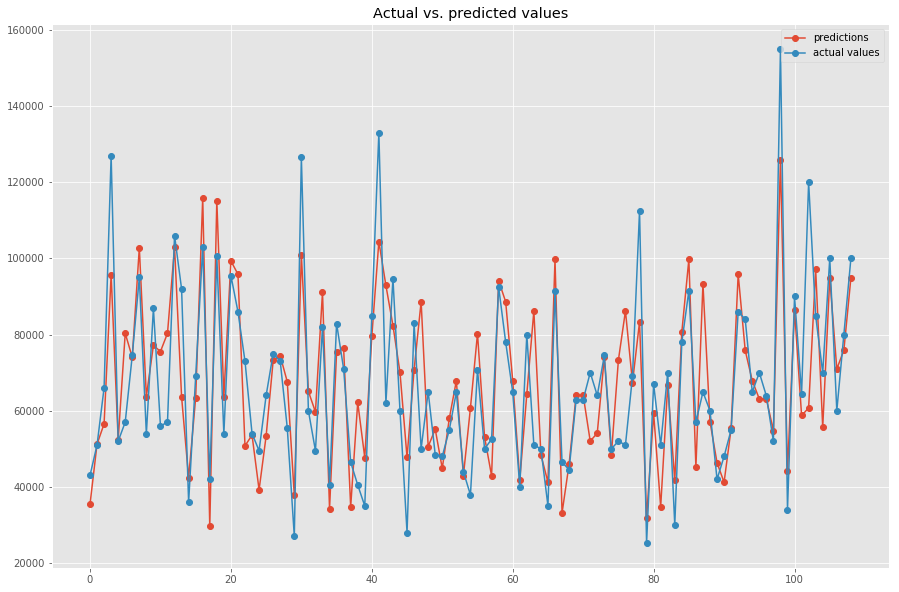
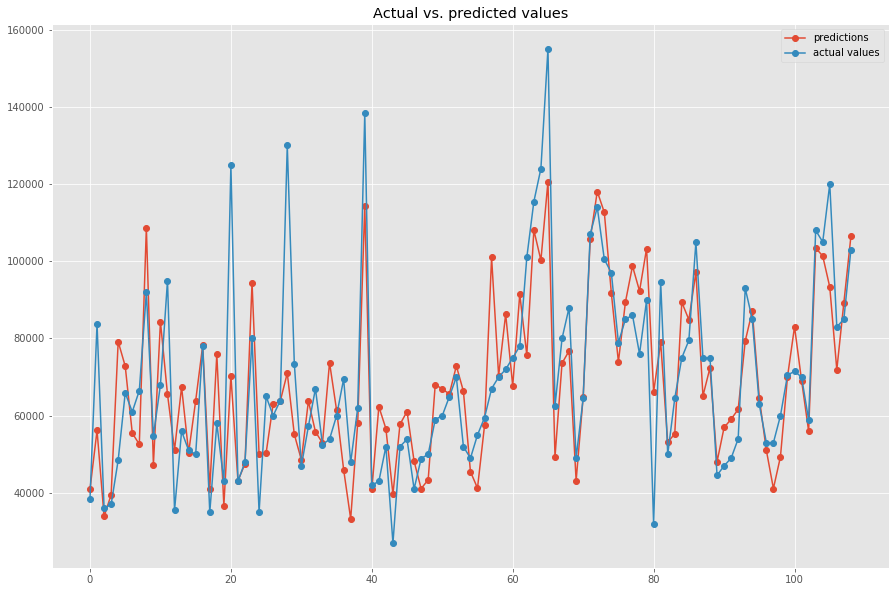
update readme

diff --git a/README.md b/README.md
@@ -3,22 +3,18 @@
 
 ## Introduction
 
-In this lab, you'll apply regression analysis using simple matrix manipulations to fit a model to given data, and then predict new values for previously unseen data. You'll follow the approach highlighted in the previous lesson where you used Numpy to build the appropriate matrices and vectors and solve for the $\beta$ (unknown variables) vector. The beta vector will be used with test data to make new predictions. You'll also evaluate the model fit.
-In order to make this experiment interesting, you'll use NumPy at every single stage of this experiment i.e. loading data, creating matrices, performing test train split, model fitting, and evaluations.
+In this lab, you'll apply regression analysis using simple matrix manipulations to fit a model to given data, and then predict new values for previously unseen data. You'll follow the approach highlighted in the previous lesson where you used NumPy to build the appropriate matrices and vectors and solve for the $\beta$ (unknown variables) vector. The beta vector will be used with test data to make new predictions. You'll also evaluate the model fit.
+In order to make this experiment interesting, you'll use NumPy at every single stage of this experiment, i.e., loading data, creating matrices, performing train-test split, model fitting, and evaluation.
   
 
 ## Objectives
 
-You will be able to:
+In this lab you will:
 
-* Use linear algebra to apply simple regression modeling in Python and NumPy only
-* Apply train/test split using permutations in NumPy
-* Use matrix algebra with inverses and dot products to calculate the beta
-* Make predictions from the fitted model using previously unseen input features 
-* Evaluate the fitted model by calculating the error between real and predicted values
+- Use matrix algebra to calculate the parameter values of a linear regression
 
 
-First, let's import necessary libraries 
+First, let's import necessary libraries: 
 
 
 ```python
@@ -35,42 +31,41 @@ import numpy as np
 
 ## Dataset 
 
-The dataset you'll use for this experiment is "**Sales Prices in the City of Windsor, Canada**", something very similar to the Boston Housing dataset. This dataset contains a number of input (independent) variables, including area, number of bedrooms/bathrooms, facilities(AC/garage), etc. and an output (dependent) variable, **price**.  You'll formulate a linear algebra problem to find linear mappings from input to out features using the equation provided in the previous lesson. 
+The dataset you'll use for this experiment is "**Sales Prices in the City of Windsor, Canada**", something very similar to the Boston Housing dataset. This dataset contains a number of input (independent) variables, including area, number of bedrooms/bathrooms, facilities(AC/garage), etc. and an output (dependent) variable, **price**.  You'll formulate a linear algebra problem to find linear mappings from input features using the equation provided in the previous lesson. 
 
 This will allow you to find a relationship between house features and house price for the given data, allowing you to find unknown prices for houses, given the input features.  
 
 A description of the dataset and included features is available [here](https://rdrr.io/cran/Ecdat/man/Housing.html).
 
-In your repository, the dataset is available as `windsor_housing.csv` containing the following variables:
-
-there are 11 input features (first 11 columns):
+In your repository, the dataset is available as `windsor_housing.csv`. There are 11 input features (first 11 columns):
 
 	lotsize	bedrooms  bathrms  stories	driveway  recroom	fullbase  gashw	 airco  garagepl   prefarea
 
 and 1 output feature i.e. **price** (12th column). 
 
-The focus of this lab is not really answering a preset analytical question, but to learn how you can perform a regression experiment, similar to the one you performed in statsmodels, using mathematical manipulations. So you won't be using any Pandas or statsmodels goodness here. The key objectives here are to 
-- understand regression with matrix algebra and 
-- mastery in NumPy scientific computation
+The focus of this lab is not really answering a preset analytical question, but to learn how you can perform a regression experiment, using mathematical manipulations - similar to the one you performed using `statsmodels`. So you won't be using any `pandas` or `statsmodels` goodness here. The key objectives here are to: 
 
-## Stage 1: Prepare Data for Modeling 
+- Understand regression with matrix algebra and 
+- Mastery in NumPy scientific computation
+
+## Stage 1: Prepare data for modeling 
 
 Let's give you a head start by importing the dataset. You'll perform the following steps to get the data ready for analysis:
 
 * Initialize an empty list `data` for loading data
-* Read the csv file containing complete (raw) `windsor_housing.csv`. [Use `csv.reader()` for loading data.](https://docs.python.org/3/library/csv.html). Store this in `data` one row at a time.
+* Read the csv file containing complete (raw) `windsor_housing.csv`. [Use `csv.reader()` for loading data.](https://docs.python.org/3/library/csv.html). Store this in `data` one row at a time 
 
-* Drop the first row of csv file as it contains the names of variables (header) which won't be used during analysis (keeping this will cause errors as it contains text values).
+* Drop the first row of csv file as it contains the names of variables (header) which won't be used during analysis (keeping this will cause errors as it contains text values) 
 
-* Append a column of all 1s to the data (bias) as the first column
+* Append a column of all **1**s to the data (bias) as the first column
 
-* Convert `data` to a Numpy array and inspect first few rows 
+* Convert `data` to a NumPy array and inspect first few rows 
 
-NOTE: `read.csv()` reads the csv as a text file, so you should convert the contents to float.
+> NOTE: `read.csv()` reads the csv as a text file, so you should convert the contents to float.
 
 
 ```python
-# Your Code here
+# Your code here
 
 
 
@@ -98,13 +93,13 @@ NOTE: `read.csv()` reads the csv as a text file, so you should convert the conte
 
 ```python
 # __SOLUTION__ 
-# Create Empty lists for storing X and y values. 
+# Create Empty lists for storing X and y values 
 data = []
 
-#Read the data from the csv file
+# Read the data from the csv file
 with open('windsor_housing.csv') as f:
     raw = csv.reader(f)
-    # Drop the very first line as it contains names for columns - not actual data.
+    # Drop the very first line as it contains names for columns - not actual data 
     next(raw)
     # Read one row at a time. Append one to each row
     for row in raw:
@@ -115,22 +110,6 @@ with open('windsor_housing.csv') as f:
         data.append(ones)
 data = np.array(data)
 data[:5,:]
-
-# array([[1.00e+00, 5.85e+03, 3.00e+00, 1.00e+00, 2.00e+00, 1.00e+00,
-#         0.00e+00, 1.00e+00, 0.00e+00, 0.00e+00, 1.00e+00, 0.00e+00,
-#         4.20e+04],
-#        [1.00e+00, 4.00e+03, 2.00e+00, 1.00e+00, 1.00e+00, 1.00e+00,
-#         0.00e+00, 0.00e+00, 0.00e+00, 0.00e+00, 0.00e+00, 0.00e+00,
-#         3.85e+04],
-#        [1.00e+00, 3.06e+03, 3.00e+00, 1.00e+00, 1.00e+00, 1.00e+00,
-#         0.00e+00, 0.00e+00, 0.00e+00, 0.00e+00, 0.00e+00, 0.00e+00,
-#         4.95e+04],
-#        [1.00e+00, 6.65e+03, 3.00e+00, 1.00e+00, 2.00e+00, 1.00e+00,
-#         1.00e+00, 0.00e+00, 0.00e+00, 0.00e+00, 0.00e+00, 0.00e+00,
-#         6.05e+04],
-#        [1.00e+00, 6.36e+03, 2.00e+00, 1.00e+00, 1.00e+00, 1.00e+00,
-#         0.00e+00, 0.00e+00, 0.00e+00, 0.00e+00, 0.00e+00, 0.00e+00,
-#         6.10e+04]])
 ```
 
 
@@ -154,12 +133,14 @@ data[:5,:]
 
 
 
-## Step 2: Perform a 80/20 test train Split
+## Step 2: Perform a 80/20 train-test split
 
 Explore NumPy's official documentation to manually split a dataset using a random sampling method of your choice. Some useful methods are located in the [numpy.random library](https://docs.scipy.org/doc/numpy-1.14.0/reference/routines.random.html).
 * Perform a **random** 80/20 split on data using a method of your choice in NumPy
-* Create x_test, y_test, x_train and y_train arrays from the split data
+* Split the data to create `x_train`, `y_train`, `x_test`, and `y_test` arrays 
 * Inspect the contents to see if the split performed as expected
+
+> Note: When randomly splitting data, it's always recommended to set a seed in order to ensure reproducibility 
 
 
 ```python
@@ -168,7 +149,6 @@ Explore NumPy's official documentation to manually split a dataset using a rando
 
 
 # Split results
-
 # Raw data Shape:  (546, 13)
 # Train/Test Split: (437, 13) (109, 13)
 # x_train, y_train, x_test, y_test: (437, 12) (437,) (109, 12) (109,)
@@ -177,6 +157,8 @@ Explore NumPy's official documentation to manually split a dataset using a rando
 
 ```python
 # __SOLUTION__ 
+# Set a seed
+np.random.seed(42)
 # Perform an 80/20 split
 # Make array of indices
 all_idx = np.arange(data.shape[0])
@@ -200,10 +182,6 @@ y_test = test[:,-1]
 
 # Check the shape of datasets
 print ('x_train, y_train, x_test, y_test:', x_train.shape, y_train.shape, x_test.shape, y_test.shape)
-
-# Raw data Shape:  (546, 13)
-# Train/Test Split: (437, 13) (109, 13)
-# x_train, y_train, x_test, y_test: (437, 12) (437,) (109, 12) (109,)
 ```
 
     Raw data Shape:  (546, 13)
@@ -216,8 +194,8 @@ print ('x_train, y_train, x_test, y_test:', x_train.shape, y_train.shape, x_test
 With $X$ and $y$ in place, you can now compute your beta values with $x_\text{train}$ and $y_\text{train}$ as:
 #### $\beta = (x_\text{train}^T. x_\text{train})^{-1} . x_\text{train}^T . y_\text{train}$
 
-* Using numpy operations (transpose, inverse) that we saw earlier, compute the above equation in steps.
-* Print your beta values
+* Using NumPy operations (transpose, inverse) that we saw earlier, compute the above equation in steps 
+* Print your beta values 
 
 
 ```python
@@ -225,13 +203,12 @@ With $X$ and $y$ in place, you can now compute your beta values with $x_\text{tr
 
 
 
-# Calculated beta values
 
-
+# Beta values
 # Due to random split, your answers may vary 
-# [-4.48935874e+03  3.25291905e+00  2.51041471e+03  1.38887244e+04
-#  6.36181829e+03  7.97134681e+03  6.73696187e+03  4.00955575e+03
-#  8.67978657e+03  1.26886121e+04  4.20044707e+03  8.63557510e+03]
+# [-5.46637290e+03  3.62457767e+00  2.75100964e+03  1.47223649e+04
+#   5.97774591e+03  5.71916945e+03  5.73109882e+03  3.83586258e+03
+#   8.12674607e+03  1.33296437e+04  3.74995169e+03  1.01514699e+04]
 ```
 
 
@@ -250,25 +227,20 @@ beta = XtX_inv.dot(Xty)
 
 # Print the values of computed beta
 print(beta)
-
-# Due to random split, your answers may vary 
-# [-4.48935874e+03  3.25291905e+00  2.51041471e+03  1.38887244e+04
-#  6.36181829e+03  7.97134681e+03  6.73696187e+03  4.00955575e+03
-#  8.67978657e+03  1.26886121e+04  4.20044707e+03  8.63557510e+03]
 ```
 
-    [-4.48935874e+03  3.25291905e+00  2.51041471e+03  1.38887244e+04
-      6.36181829e+03  7.97134681e+03  6.73696187e+03  4.00955575e+03
-      8.67978657e+03  1.26886121e+04  4.20044707e+03  8.63557510e+03]
+    [-5.46637290e+03  3.62457767e+00  2.75100964e+03  1.47223649e+04
+      5.97774591e+03  5.71916945e+03  5.73109882e+03  3.83586258e+03
+      8.12674607e+03  1.33296437e+04  3.74995169e+03  1.01514699e+04]
 
 
-## Step 4: Make Predictions
+## Step 4: Make predictions
 Great, you now have a set of coefficients that describe the linear mappings between $X$ and $y$. You can now use the calculated beta values with the test datasets that we left out to calculate $y$ predictions. Next, use all features in turn and multiply it with this beta. The result will give a prediction for each row which you can append to a new array of predictions.
 
 $\hat{y} = x\beta = \beta_0 + \beta_1 x_1 +  \beta_2 x_2 + \ldots + \beta_m x_m $ 
 
 * Create a new empty list (`y_pred`) for saving predictions
-* For each row of x_test, take the dot product of the row with beta to calculate the prediction for that row
+* For each row of `x_test`, take the dot product of the row with beta to calculate the prediction for that row
 * Append the predictions to `y_pred`
 * Print the new set of predictions
 
@@ -287,9 +259,9 @@ for row in x_test:
     y_pred.append(pred)
 ```
 
-## Step 5: Evaluate Model 
+## Step 5: Evaluate model 
 
-### Visualize Actual vs. Predicted values
+### Visualize actual vs. predicted values
 This is exciting, now your model can use the beta value to predict the price of houses given the input features. Let's plot these predictions against the actual values in `y_test` to see how much our model deviates. 
 
 
@@ -303,6 +275,7 @@ This is exciting, now your model can use the beta value to predict the price of 
 # __SOLUTION__ 
 # Plot predicted and actual values as line plots
 import matplotlib.pyplot as plt
+%matplotlib inline
 from pylab import rcParams
 rcParams['figure.figsize'] = 15, 10
 plt.style.use('ggplot')
@@ -315,28 +288,26 @@ plt.show()
 ```
 
 
-    <Figure size 1500x1000 with 1 Axes>
+![png](index_files/index_17_0.png)
 
 
-<img src ="images/diff.png" width="750">
+This doesn't look so bad, does it? Your model, although isn't perfect at this stage, is making a good attempt to predict house prices although a few prediction seem a bit out. There could be a number of reasons for this. Let's try to dig a bit deeper to check model's predictive abilities by comparing these prediction with actual values of `y_test` individually. That will help you calculate the RMSE value (root mean squared error) for your model. 
 
-This doesn't look so bad, does it? Your model, although isn't perfect at this stage, is making a good attempt to predict house prices although a few prediction seem a bit out. There could be a number of reasons for this. Let's try to dig a bit deeper to check model's predictive abilities by comparing these prediction with actual values of `y_test` individually. That will help you calculate the RMSE value (Root Mean Squared Error) for your model. 
 ### Root Mean Squared Error
-Here is the formula for this again. 
+Here is the formula for RMSE:  
 
 $$ \large RMSE = \sqrt{\sum^N_{i=1}\dfrac{ (\text{Predicted}_i-\text{Actual}_i)^2}{N}}$$
 
 * Initialize an empty array `err`
-* for each row in `y_test` and `y_pred`, take the squared difference and append error for each row in the `err` array
-* Calculate $RMSE$ from `err` using the formula shown above. 
+* For each row in `y_test` and `y_pred`, take the squared difference and append error for each row in the `err` array
+* Calculate $RMSE$ from `err` using the formula shown above 
 
 
 ```python
 # Calculate RMSE
 
 # Due to random split, your answers may vary 
-
-# RMSE = 16585.59639547113
+# RMSE = 14868.172645765708
 ```
 
 
@@ -351,61 +322,58 @@ for pred,actual in zip(y_pred,y_test):
 mean_sq_err = np.array(err).mean()
 root_mean_sq_err = np.sqrt(mean_sq_err)
 root_mean_sq_err
+
+# Due to random split, your answers may vary 
+# RMSE = 14868.172645765708
 ```
 
 
 
 
-    16585.59639547113
+    14868.172645765708
 
 
 
-### Normalized Root Mean Squared Error
-The above error is clearly in terms of the dependent variable i.e. the final house price. You can also use a normalized mean squared error in case of multiple regression which can be calculated from RMSE using following the formula:
-
-* Calculate normalized Root Mean Squared Error
-
+### Normalized root mean squared error
+The above error is clearly in terms of the dependent variable, i.e., the final house price. You can also use a normalized mean squared error in case of multiple regression which can be calculated from RMSE using following the formula:
 
 $$ \large NRMSE = \dfrac{RMSE}{max_i y_i - min_i y_i} $$
+
+* Calculate normalized RMSE
 
 
 ```python
 # Calculate NRMSE
 
 # Due to random split, your answers may vary 
-
-# 0.10051876603315836
+# 0.09011013724706489
 ```
 
 
 ```python
 # __SOLUTION__ 
-# Due to random split, your answers may vary 
+
 root_mean_sq_err/(y_train.max() - y_train.min())
 
-# 0.10051876603315836
+# Due to random split, your answers may vary 
+# 0.09011013724706489
 ```
 
 
 
 
-    0.10051876603315836
+    0.09011013724706489
 
 
 
-There it is. A complete multiple regression analysis using nothing but Numpy. Having good programming skills in numpy allows you to dig deeper into analytical algorithms in machine learning and deep learning. Using matrix multiplication techniques you saw here, you can easily build a whole neural network from scratch. 
+There it is. A complete multiple regression analysis using nothing but NumPy. Having good programming skills in NumPy allows you to dig deeper into analytical algorithms in machine learning and deep learning. Using matrix multiplication techniques you saw here, you can easily build a whole neural network from scratch. 
 
-## Level up - Optional 
+## Level up (Optional)
 
-* Calculate the R_squared and adjusted R_squared for the above experiment
-* Plot the residuals (similar to statsmodels) and comment on the variance and heteroscedasticity
-* Run the experiment in statsmodels and compare the performance of both approaches in terms of computational cost
+* Calculate the R-squared and adjusted R-squared for the above model 
+* Plot the residuals (similar to `statsmodels`) and comment on the variance and heteroscedasticity
+* Run the experiment in `statsmodels` and compare the performance of both approaches in terms of computational cost
 
 ## Summary
 
-In this lab, you built a predictive model for predicting house prices. Remember this is a very naive implementation of regression modeling. The purpose here was to get an introduction to the applications of linear algebra into machine learning and predictive analysis. There are still have a number of shortcomings in this modeling approach and you can further apply a number of data modeling techniques to improve this model. 
-
-
-```python
-
-```
+In this lab, you built a predictive model for predicting house prices. Remember this is a very naive implementation of regression modeling. The purpose here was to get an introduction to the applications of linear algebra into machine learning and predictive analysis. There are a number of shortcomings in this modeling approach and you can further apply a number of data modeling techniques to improve this model. 
